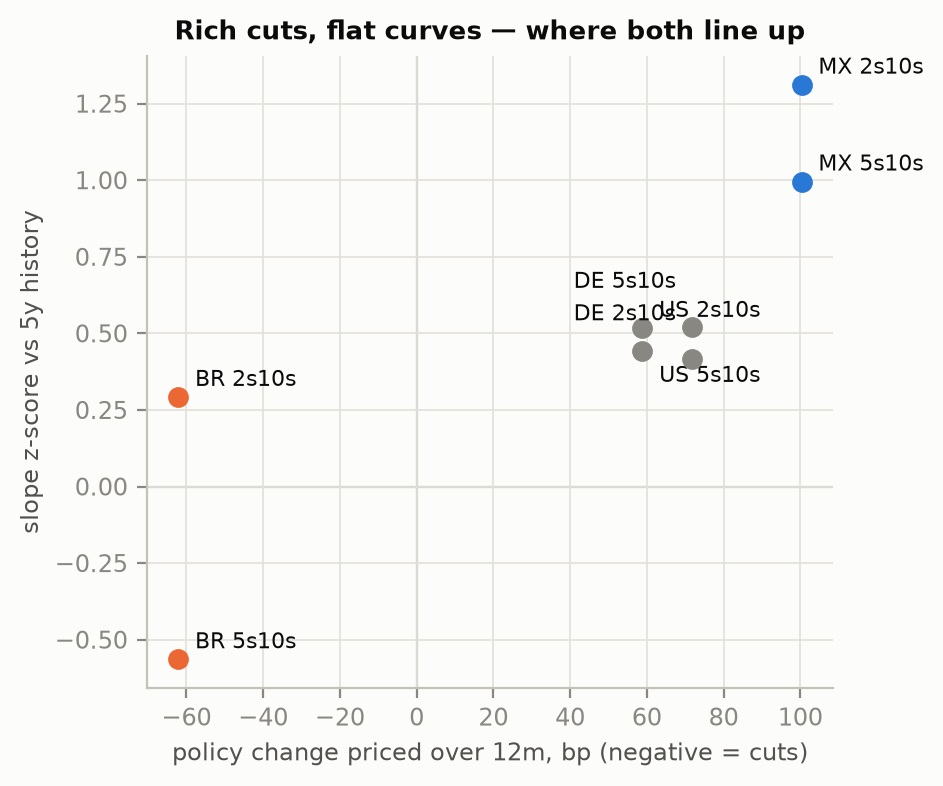
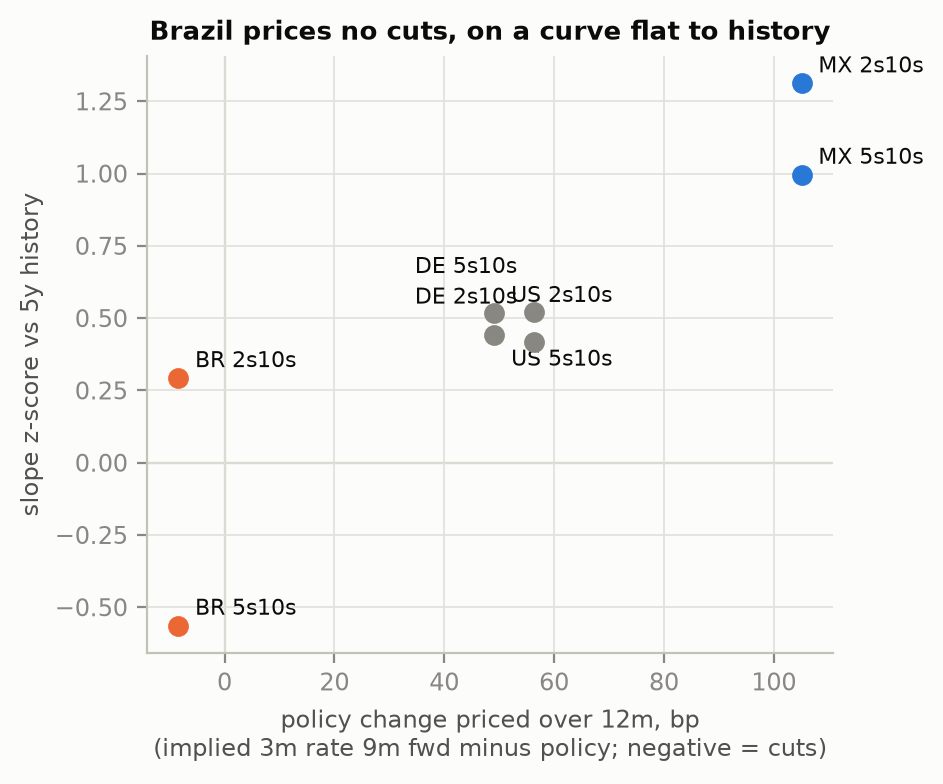
Phase 2 analytics: forward-path metric, vol cross-check, invalidation levels
- path_12m_bp: implied 3m rate 9m forward minus policy replaces the
  2x(1y - policy) readout in the summary and Fig 2 (old metric kept as
  naive_cuts_bp for the appendix comparison). Flips BR from -62bp to
  -8.4bp of cuts priced - the crude metric was double-counting the
  front-end dip.
- weekly_vol_3m_bp: weekly-sampled cross-check for forward-filled
  panels; MX 2s10s reads 71.1 vs 70.8 daily, so the staleness caveat is
  quantified at nil.
- invalidation_bp: exit when the slope moves one 5y standard deviation
  (the z-score's own denominator) against the position.
- Fig 2 retitled to the chosen framing (BR 5s10s steepener).

Claude-Session: https://claude.ai/code/session_01L87Ambfd3YCFhMJwrQDMo3

diff --git a/src/analytics.py b/src/analytics.py
@@ -71,15 +71,26 @@ def slope_zscore(slope: pd.Series, years: int = ZSCORE_YEARS) -> float:
     return float((window.iloc[-1] - window.mean()) / window.std(ddof=1))
 
 
-def cuts_priced_12m_bp(fit: pd.Series, policy_pct: float) -> float:
-    """Easing priced over the next 12m, bp; negative = cuts priced.
+def forward_rate(fit: pd.Series, t1: float, t2: float) -> float:
+    """Implied forward rate between t1 and t2 (years) off the fitted curve, %."""
+    y1 = float(curve_at(fit, t1)[0]) / 100.0
+    y2 = float(curve_at(fit, t2)[0]) / 100.0
+    return (((1 + y2) ** t2 / (1 + y1) ** t1) ** (1 / (t2 - t1)) - 1) * 100.0
 
-    Reads the fitted 1y yield as the average expected policy rate over the
-    year and assumes a linear path (DECISIONS.md), so the implied end-point
-    is policy + 2*(y1y - policy).
+
+def path_12m_bp(fit: pd.Series, policy_pct: float) -> float:
+    """Policy change priced over 12m, bp: implied 3m rate 9m forward vs policy.
+
+    Negative = cuts priced. Term premium in the 1y sector contaminates the
+    level (stated in the note); it replaced the cruder 2*(1y - policy)
+    metric, which is kept below for the appendix comparison.
     """
-    y1 = float(curve_at(fit, 1.0)[0])
-    return 2.0 * (y1 - policy_pct) * 100.0
+    return (forward_rate(fit, 0.75, 1.0) - policy_pct) * 100.0
+
+
+def naive_cuts_bp(fit: pd.Series, policy_pct: float) -> float:
+    """Appendix-only: the old linear-path metric, 2*(fitted 1y - policy), bp."""
+    return 2.0 * (float(curve_at(fit, 1.0)[0]) - policy_pct) * 100.0
 
 
 def trade_vol_3m_bp(slope: pd.Series) -> float:
@@ -87,6 +98,32 @@ def trade_vol_3m_bp(slope: pd.Series) -> float:
     daily = slope.sort_index().diff().dropna()
     recent = daily[daily.index >= daily.index.max() - pd.DateOffset(years=1)]
     return float(recent.std(ddof=1) * np.sqrt(BDAYS_3M) * 100.0)
+
+
+def weekly_vol_3m_bp(slope: pd.Series) -> float:
+    """3m vol from weekly-sampled slope changes * sqrt(13), bp.
+
+    Cross-check for forward-filled panels (MX): if stale fills damped the
+    daily estimate, this one would be materially higher.
+    """
+    wk = slope.sort_index()
+    wk.index = pd.DatetimeIndex(wk.index)
+    wk = wk.resample("W-FRI").last().dropna()
+    recent = wk[wk.index >= wk.index.max() - pd.DateOffset(years=1)]
+    return float(recent.diff().dropna().std(ddof=1) * np.sqrt(13) * 100.0)
+
+
+def invalidation_bp(slope: pd.Series, steepener: bool,
+                    years: int = ZSCORE_YEARS) -> float:
+    """Exit level for the trade's slope, bp.
+
+    Rule: the mean-reversion case is invalidated when the slope moves one
+    5y standard deviation (of levels, the z-score's own denominator)
+    against the position from today's level.
+    """
+    window = slope[slope.index >= slope.index.max() - pd.DateOffset(years=years)]
+    sd = float(window.std(ddof=1))
+    return float((window.iloc[-1] - sd if steepener else window.iloc[-1] + sd) * 100.0)
 
 
 def latest_policy(policy: pd.DataFrame) -> float:
@@ -115,10 +152,13 @@ def summary_table(fits_by_cc: dict[str, pd.DataFrame],
                 "country": cc, "trade": f"{t_short:g}s{t_long:g}s",
                 "slope_bp": slope.iloc[-1] * 100.0,
                 "slope_z": slope_zscore(slope),
-                "cuts_priced_12m_bp": cuts_priced_12m_bp(latest, policy),
+                "path_12m_bp": path_12m_bp(latest, policy),
+                "naive_cuts_bp": naive_cuts_bp(latest, policy),
                 "steepener_carry_roll_bp_3m": carry,
                 "vol_3m_bp": vol,
+                "vol_wk_3m_bp": weekly_vol_3m_bp(slope),
                 "carry_per_vol": carry / vol,
+                "inval_bp": invalidation_bp(slope, steepener=carry >= 0),
                 "fit_rmse_bp": latest.get("rmse_bp", float("nan")),
             })
     return pd.DataFrame(rows)

diff --git a/tests/test_analytics.py b/tests/test_analytics.py
@@ -5,9 +5,10 @@ import pandas as pd
 import pytest
 
 from src import plots
-from src.analytics import (cuts_priced_12m_bp, dv01_neutral_ratio, leg_carry_roll_bp,
+from src.analytics import (dv01_neutral_ratio, forward_rate, invalidation_bp,
+                           leg_carry_roll_bp, naive_cuts_bp, path_12m_bp,
                            slope_series, slope_zscore, summary_table,
-                           trade_carry_roll_bp, zero_dv01)
+                           trade_carry_roll_bp, weekly_vol_3m_bp, zero_dv01)
 from src.curves import curve_at
 from src.fetchers import semiannual_to_effective, simple_360_to_effective
 
@@ -45,10 +46,15 @@ def test_steepener_flattener_are_signed_opposites():
     assert steep > 0
 
 
-def test_cuts_priced_reads_short_end():
-    assert cuts_priced_12m_bp(FLAT8, 8.0) == pytest.approx(0.0)
+def test_policy_path_metrics():
+    # flat curve: every forward equals the level, so no policy change priced
+    assert forward_rate(FLAT8, 0.75, 1.0) == pytest.approx(8.0, abs=1e-9)
+    assert path_12m_bp(FLAT8, 8.0) == pytest.approx(0.0, abs=1e-6)
+    assert naive_cuts_bp(FLAT8, 8.0) == pytest.approx(0.0)
     inverted = pd.Series({"b0": 6.0, "b1": 2.0, "b2": 0.0, "tau": 1.0})
-    assert cuts_priced_12m_bp(inverted, 8.0) < -50  # short end below policy = cuts
+    assert path_12m_bp(inverted, 8.0) < -50  # forward path below policy = cuts
+    # forward sits below both spot yields when the curve inverts locally
+    assert forward_rate(inverted, 0.75, 1.0) < float(curve_at(inverted, 0.75)[0])
 
 
 def test_basis_conversions():
@@ -72,7 +78,13 @@ def test_summary_table_and_figures_end_to_end(tmp_path, monkeypatch):
     summary = summary_table(fits, policy)
     assert len(summary) == 4  # 2 countries x (2s10s, 5s10s)
     assert set(summary["trade"]) == {"2s10s", "5s10s"}
-    assert summary["vol_3m_bp"].gt(0).all()
+    assert summary["vol_3m_bp"].gt(0).all() and summary["vol_wk_3m_bp"].gt(0).all()
+    # invalidation sits 1 sigma against each trade's positive-carry direction
+    mx = slope_series(fits["MX"], 2.0, 10.0)
+    row = summary.loc[summary.eval("country=='MX' and trade=='2s10s'")].iloc[0]
+    expected = invalidation_bp(mx, steepener=row["steepener_carry_roll_bp_3m"] >= 0)
+    assert row["inval_bp"] == pytest.approx(expected)
+    assert weekly_vol_3m_bp(mx) > 0
     z = slope_zscore(slope_series(fits["MX"], 2.0, 10.0))
     assert summary.loc[summary.eval("country=='MX' and trade=='2s10s'"),
                        "slope_z"].iloc[0] == pytest.approx(z)

diff --git a/src/plots.py b/src/plots.py
@@ -89,13 +89,13 @@ def plot_z_vs_cuts(summary: pd.DataFrame) -> Path:
         fig, ax = plt.subplots(figsize=(4.8, 4.0))
         ax.axhline(0, color=BASELINE, lw=0.8, zorder=1)
         ax.axvline(0, color=BASELINE, lw=0.8, zorder=1)
-        xs, ys = summary["cuts_priced_12m_bp"], summary["slope_z"]
+        xs, ys = summary["path_12m_bp"], summary["slope_z"]
         xr, yr = max(np.ptp(xs), 1e-9), max(np.ptp(ys), 1e-9)
         placed: list[tuple[float, float]] = []
         offsets = ((6, 4), (6, -11), (-6, 4), (-6, -11), (6, 14), (-6, 14))
         for _, row in summary.iterrows():
             color = COUNTRY_COLORS.get(row["country"], INK2)
-            x, y = row["cuts_priced_12m_bp"], row["slope_z"]
+            x, y = row["path_12m_bp"], row["slope_z"]
             ax.scatter(x, y, s=42, color=color, zorder=3)
             for dx, dy in offsets:  # first offset whose label clears the rest
                 lx, ly = x + dx * xr / 300, y + dy * yr / 300
@@ -107,9 +107,9 @@ def plot_z_vs_cuts(summary: pd.DataFrame) -> Path:
                         xytext=(dx, dy), textcoords="offset points",
                         fontsize=8, color=INK,
                         ha="left" if dx > 0 else "right")
-        ax.set_xlabel("policy change priced over 12m, bp (negative = cuts)")
+        ax.set_xlabel("policy change priced over 12m, bp\n(implied 3m rate 9m fwd minus policy; negative = cuts)")
         ax.set_ylabel("slope z-score vs 5y history")
-        ax.set_title("Rich cuts, flat curves — where both line up")
+        ax.set_title("Brazil prices no cuts, on a curve flat to history")
         fig.tight_layout()
         return _save(fig, "fig2_z_vs_cuts")
 
